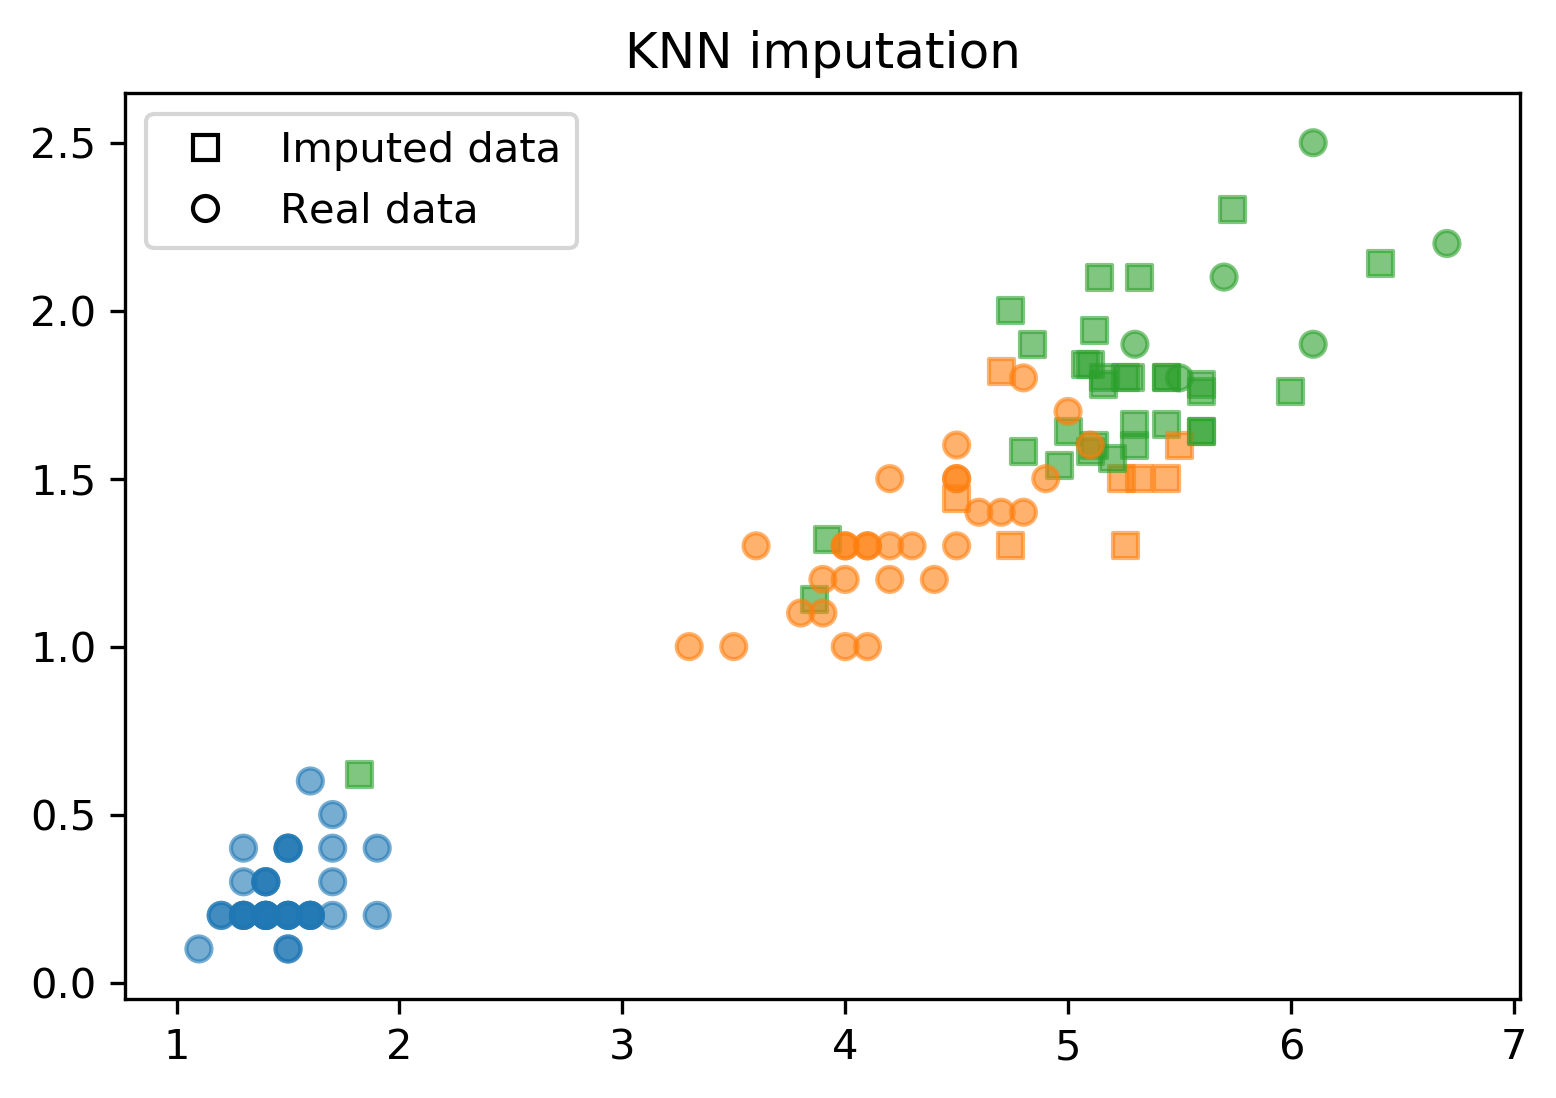
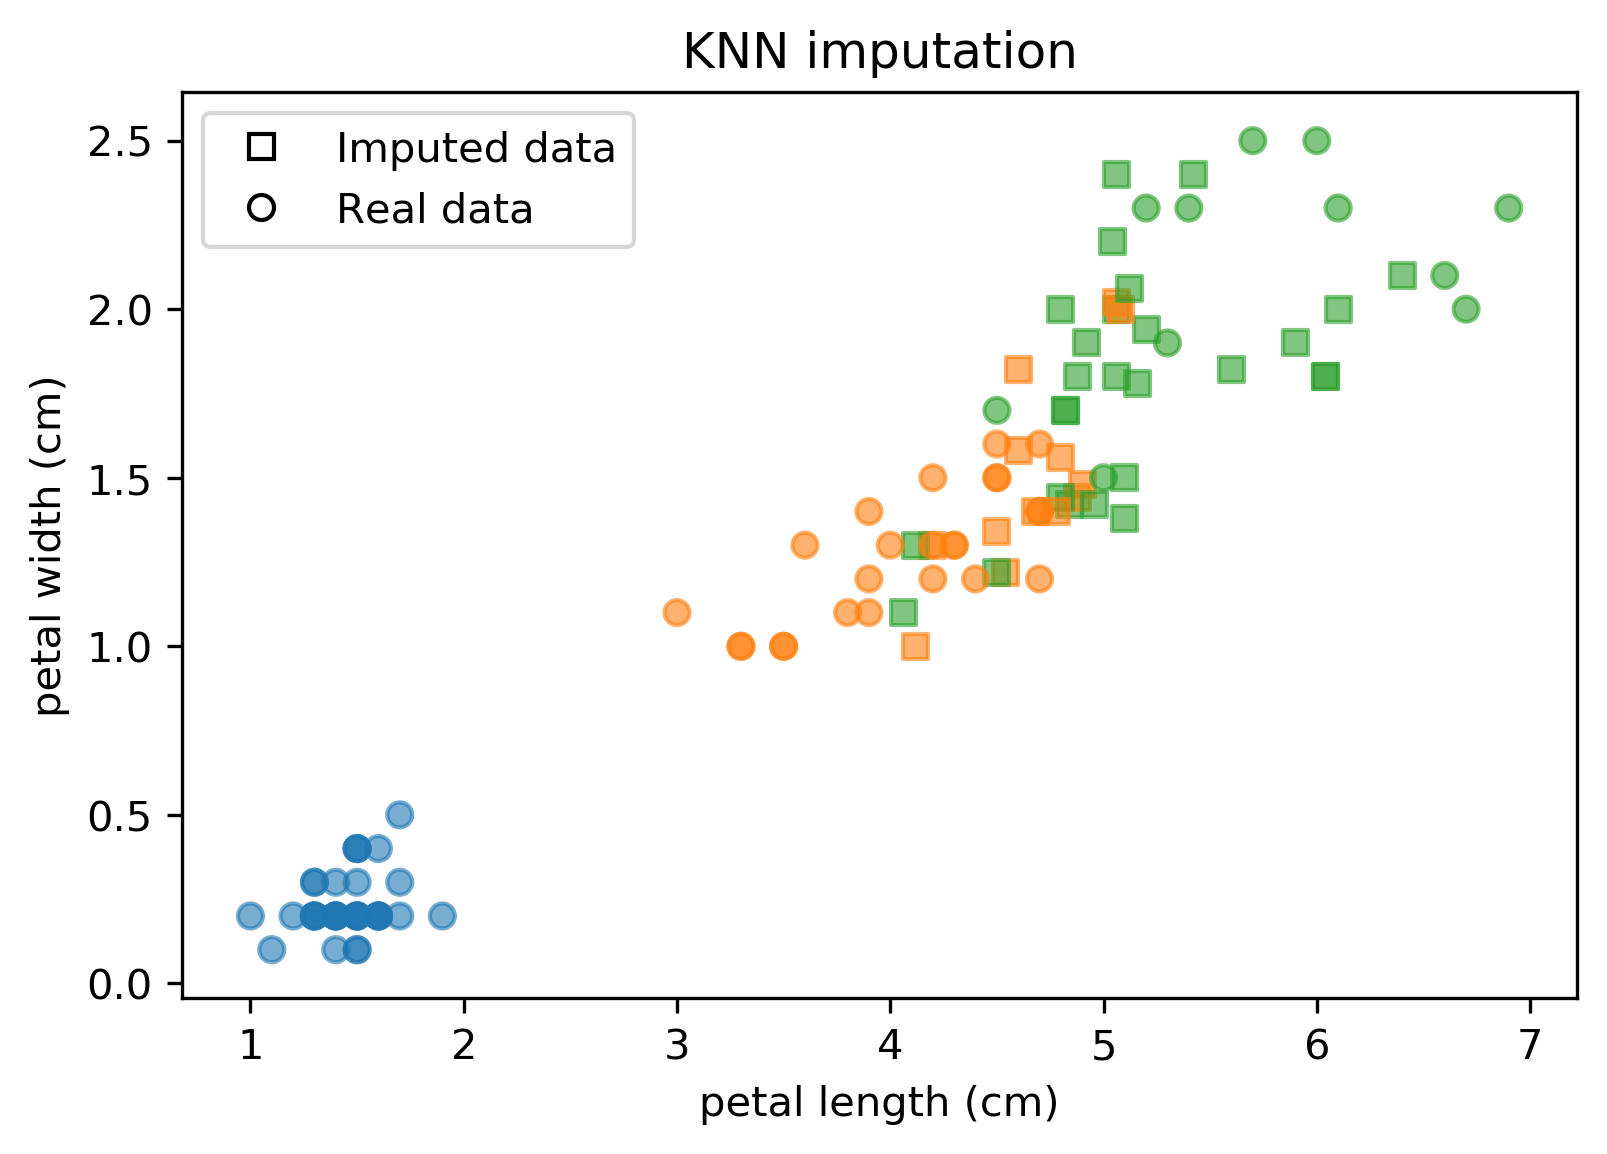
polish imputation slides

Changed region(s): [[0.0, 0.031, 0.9871, 0.9909], [0.401, 0.4954, 0.4319, 0.5574], [0.0, 0.3406, 0.0308, 0.3716]]

diff --git a/slides/04-missing_values.html b/slides/04-missing_values.html
@@ -216,7 +216,7 @@ values.
 ---
 
 .center[
-![:scale 100%](images/median_imputation.png)
+![:scale 90%](images/median_imputation.png)
 ]
 
 ???
@@ -276,54 +276,15 @@ class: spacious
 - Find k nearest neighbors that have non-missing values.
 - Fill in all missing values using the average of the
 neighbors.
-- PR in scikit-learn: https://github.com/scikit-learn/scikit-learn/pull/9212
 
 .smaller[
 ```python
-# not merged yet!
-knn_pipe = make_pipeline(KNNImputer(), StandardScaler(), LogisticRegression())
-np.mean(scores)
-```
-```
-0.849
-```
-]
-
----
-
-# KNN Imputation
-
-.smaller[
-```python
-# Very inefficient didactic implementation
-
-distances = np.zeros((X_train.shape[0], X_train.shape[0]))
-for i, x1 in enumerate(X_train):
-    for j, x2 in enumerate(X_train):
-        dist = (x1 - x2) ** 2
-        nan_mask = np.isnan(dist)
-        distances[i, j] = dist[~nan_mask].mean() * X_train.shape[1]
-
-neighbors = np.argsort(distances, axis=1)[:, 1:]
-n_neighbors = 3
-
-X_train_knn = X_train.copy()
-for feature in range(X_train.shape[1]):
-    has_missing_value = np.isnan(X_train[:, feature])
-    for row in np.where(has_missing_value)[0]:
-        neighbor_features = X_train[neighbors[row], feature]
-        non_nan_neighbors = neighbor_features[~np.isnan(neighbor_features)]
-        X_train_knn[row, feature] = non_nan_neighbors[:n_neighbors].mean()
-```
-]
-
-???
-
----
-.smaller[
-```python
-logreg.fit(X_train_knn, y_train)
-logreg.score(X_test_knn, y_test)
+from sklearn.impute import KNNImputer
+knnimp = KNNImputer().fit(X_train)
+X_train_knn = knnimp.transform(X_train)
+lr = LogisticRegression().fit(X_train_knn, y_train)
+X_test_knn = knnimp.transform(X_test)
+lr.score(X_test_knnimp, y_test)
 ```
 ```
 0.849
@@ -331,8 +292,9 @@ logreg.score(X_test_knn, y_test)
 ]
 
 .center[
-![:scale 70%](images/knn_imputation.png)
+![:scale 60%](images/knn_imputation.png)
 ]
+
 
 ???
 
